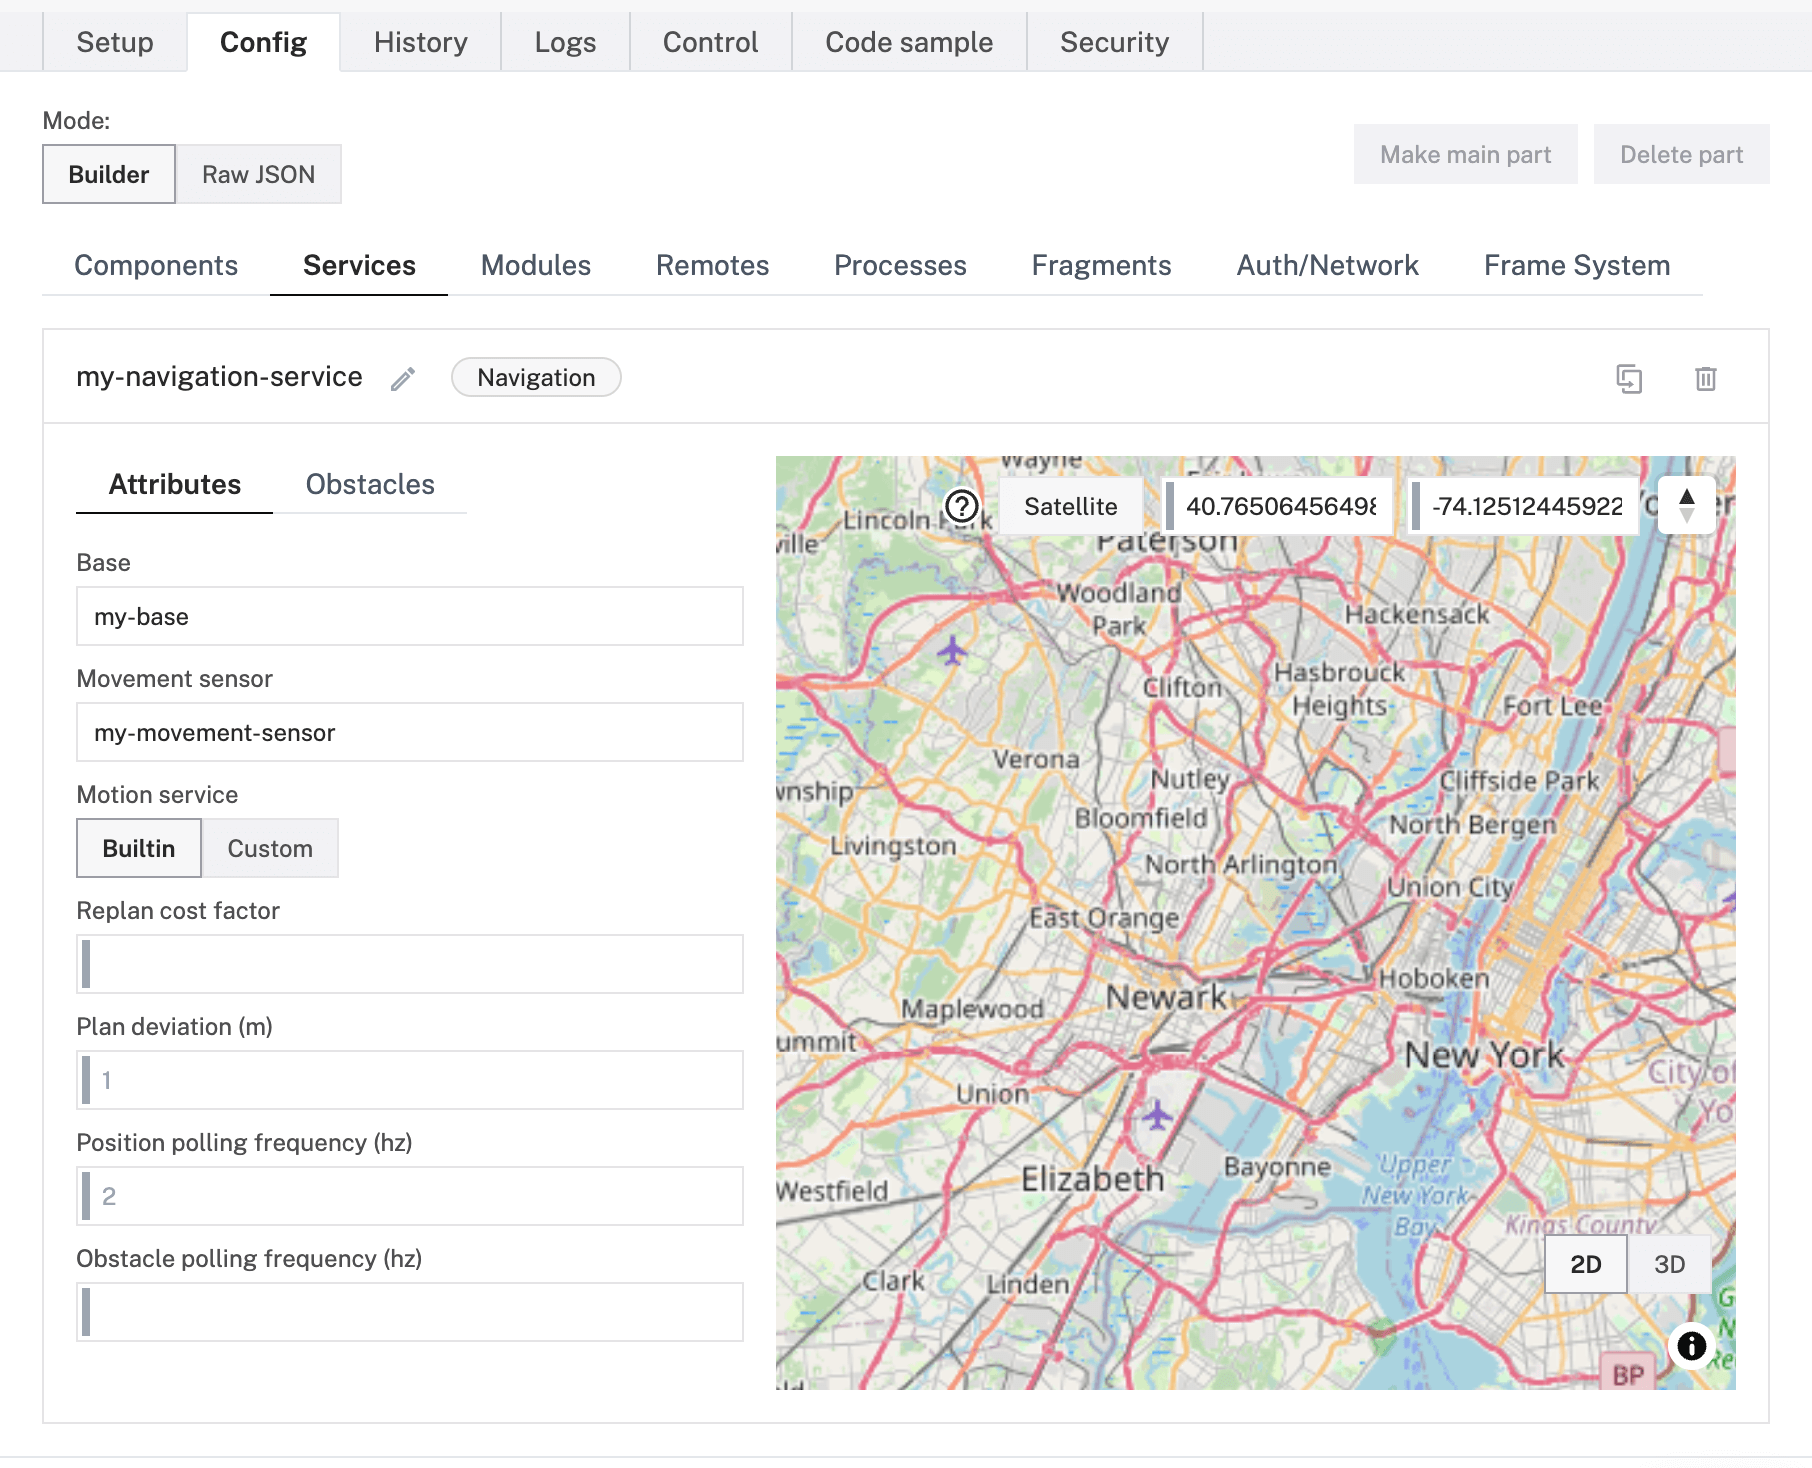
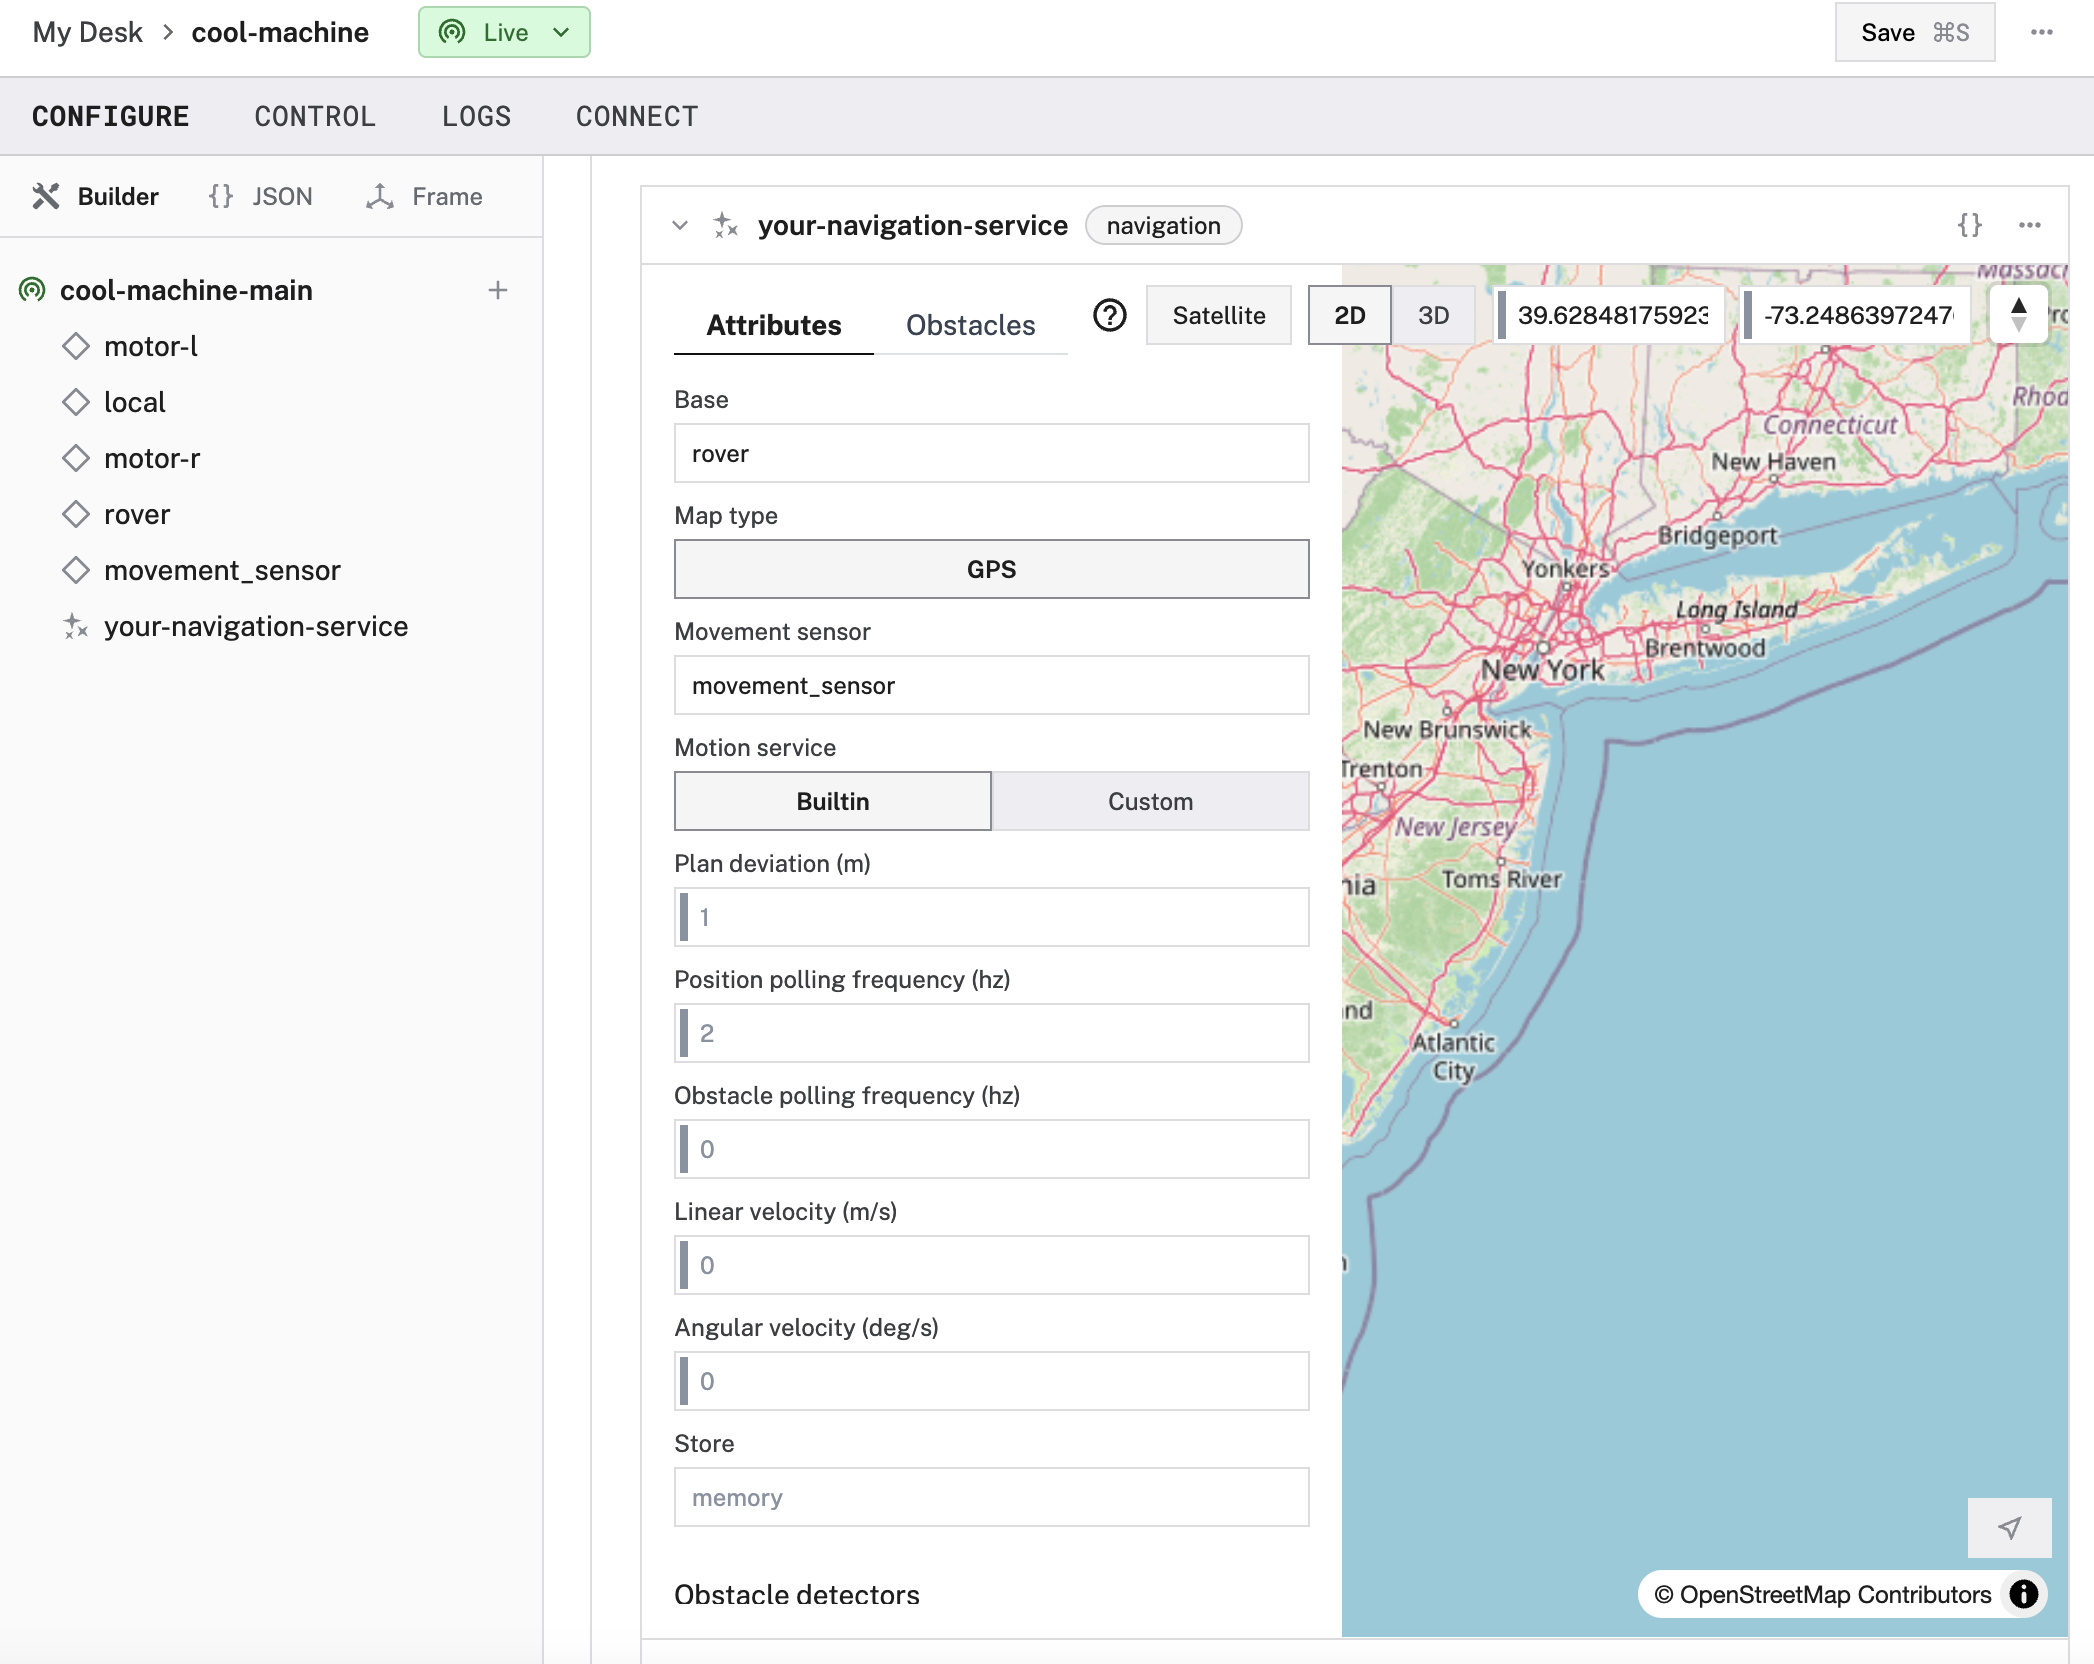
DOCS-2123: Update navigation screenshot for R2D2 (#2768)

diff --git a/docs/mobility/navigation/_index.md b/docs/mobility/navigation/_index.md
@@ -55,7 +55,9 @@ Click the **+** icon next to your machine part in the left-hand menu and select 
 Select the `navigation` type.
 Enter a name or use the suggested name for your service and click **Create**.
 
-![An example configuration for a navigation service in the Viam app Config Builder.](/mobility/navigation/navigation-ui-config.png)
+{{<imgproc src="/mobility/navigation/navigation-ui-config.png" resize="1200x" style="width: 900px" alt="An example configuration for a navigation service in the Viam app Config Builder.">}}
+
+Edit the attributes as applicable to your machine, according to the table below.
 
 {{% /tab %}}
 {{% tab name="JSON Template" %}}
